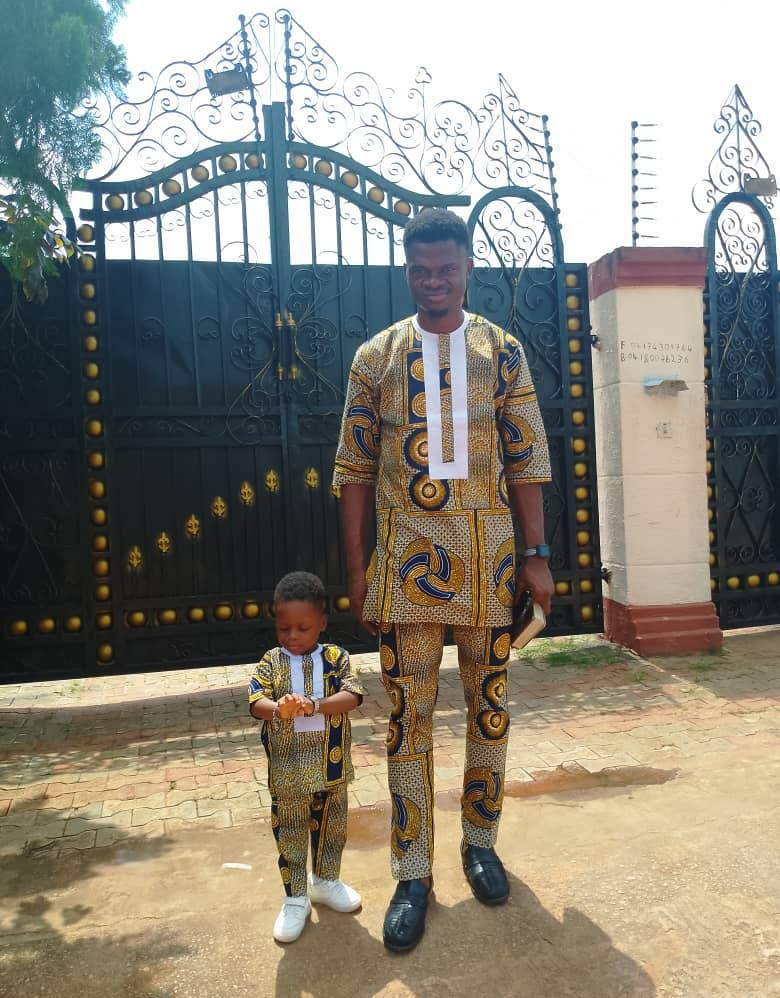
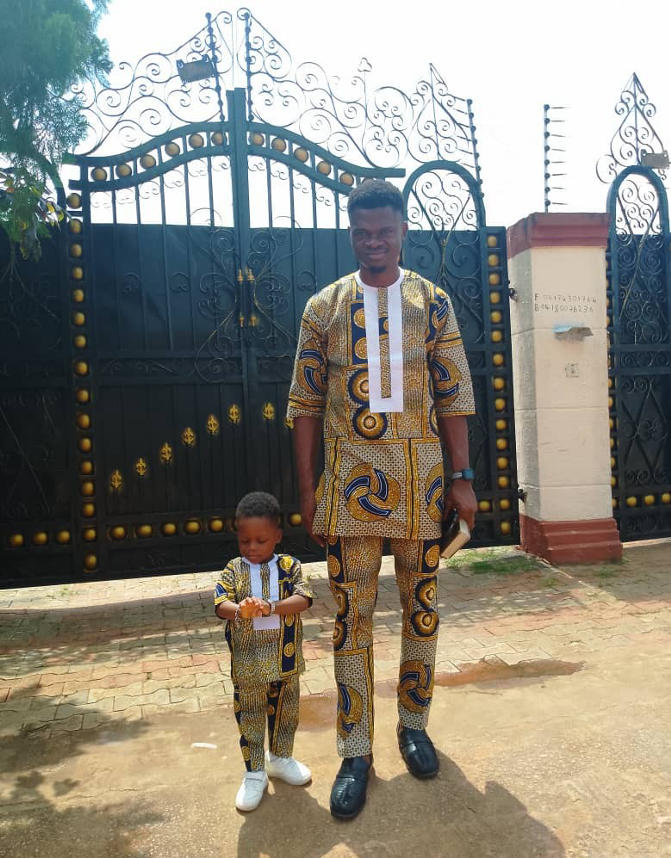
optimization of image

diff --git a/index.html b/index.html
@@ -11,11 +11,11 @@
     <header>
         <nav>
             <a href="#">Home</a>
-            <a href="wwr/">rafting webite</a>
+            <a href="wwr/">Rafting Website</a>
         </nav>
     </header>
     <main>
-        <h1>Osawe Osamudiamen | WWD 130</h1>
+        <h1>Osawe Osamudiamen | WDD 130</h1>
         <img src="images/profile.jpg" alt="Osamudiamen Osawe" width="200" />
         <p>my name is osawe Osamudiamen, and i am a byupathway connect student, and i am into web programings.
             i also enjoy playing football, going fishing and chatting.
